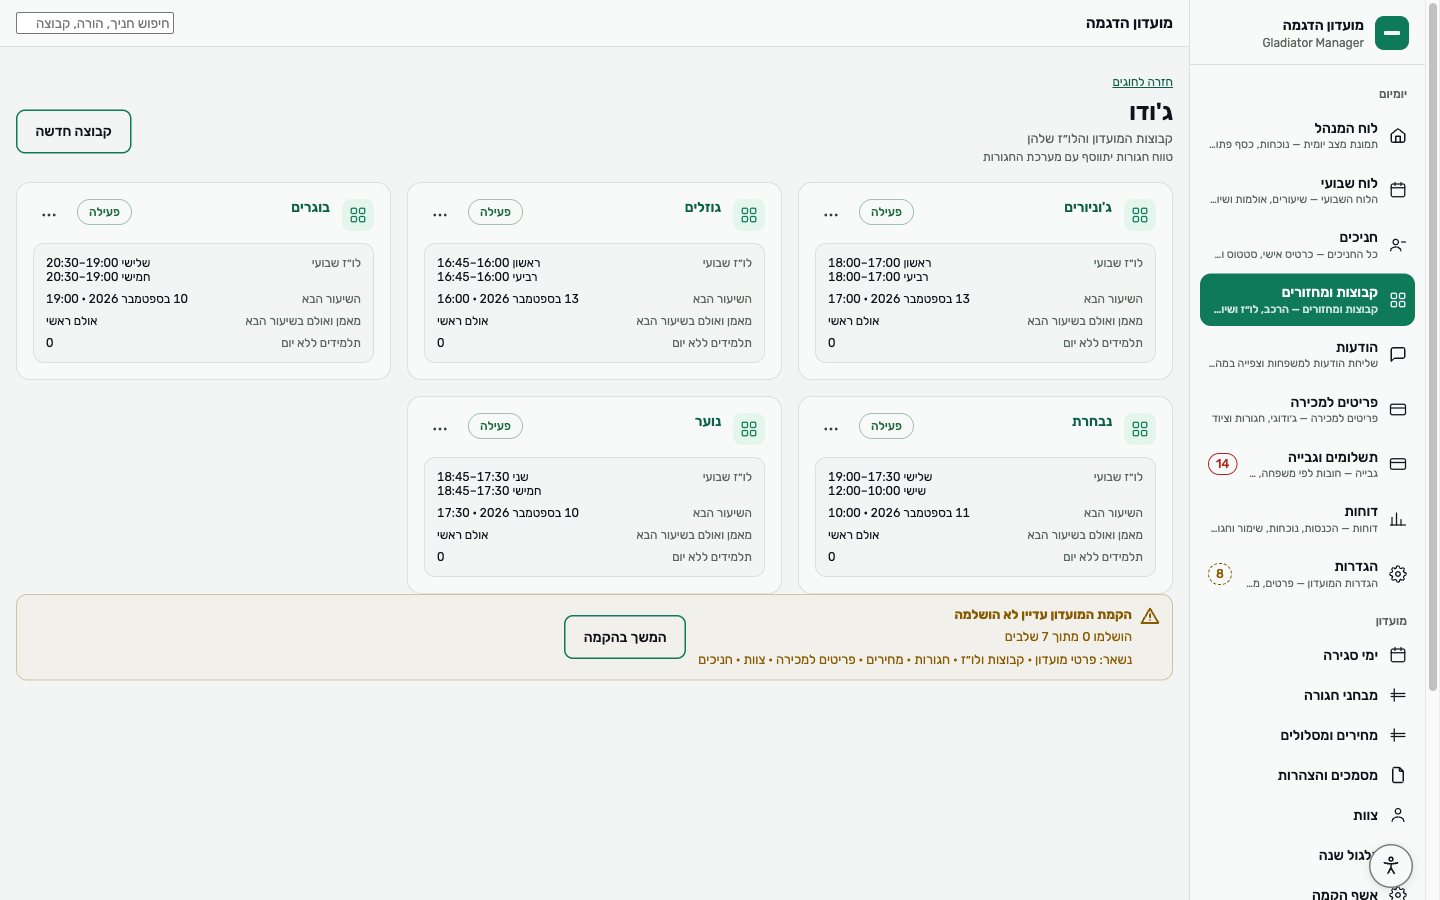
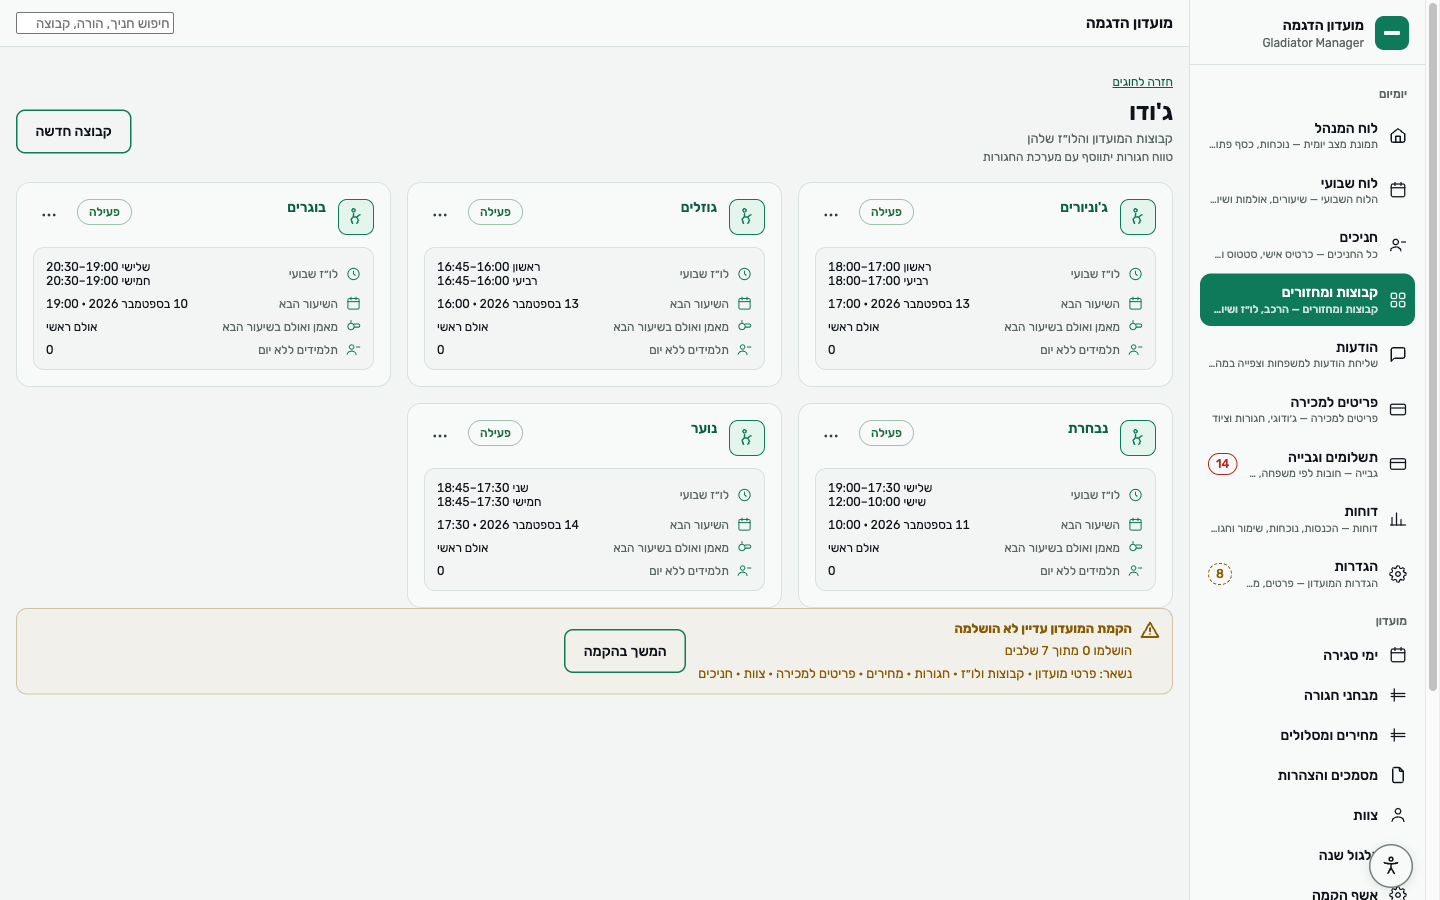
feat(dashboard): a pictogram per class, and one beside every fact on a card
The prototype gives every program and every group card an icon chosen from its
discipline, and puts a small mark before each line in a card's well. Ours had
neither, which is most of why its grid read as a column of boxes and three facts
read as three unlabelled lines.

The icon set gains seven: four disciplines (martial arts, fitness, pool, ball) and
the three marks a group card's facts need (location, clock, whistle), all on the
same 24×24 stroke grid as the rest and all `currentColor`, so an icon is never
carrying a colour decision of its own.

`martialArts` is the DEFAULT and not a fallback to nothing. A club that types קרב
מגע — or nothing at all — still gets a mark, because this is a judo club and an
empty badge on every card is worse than one honest default. The match is on the
word rather than an enum, since `discipline` is free text a manager types, and the
icon is decorative everywhere it appears: the name is always beside it, so a wrong
guess costs a reader nothing.

The unscheduled-students row changes its icon with its state — a person-shaped
mark at zero, a warning above it — so the row above zero turns three ways at once
and the colour is never the only signal.

Both badges take the emphasis tint and the hairline the prototype draws round its
card marks; without the ring the tint floats.

diff --git a/web/apps/dashboard/src/features/schedule/GroupsAndCycles.tsx b/web/apps/dashboard/src/features/schedule/GroupsAndCycles.tsx
@@ -36,9 +36,11 @@
 import { useEffect, useMemo, useState } from 'react'
 import type { ReactNode } from 'react'
 import { Button, EmptyState, Icon, PageHeader, RowActions, StatusChip, TextField } from '@studio/ui'
+import type { IconName } from '@studio/ui'
 import { apiFetch, fill, formatDateInStudioZone, formatTimeInStudioZone } from '@studio/core'
 import { t } from '@studio/i18n'
 import type { Locale } from '@studio/i18n'
+import { disciplineIcon } from './disciplineIcon'
 import type { GroupSummary, ScheduleClient, ScheduleRule, SessionRow } from './client'
 
 interface GroupFacts {
@@ -63,21 +65,32 @@ function coachOf(session: SessionRow): string | null {
 }
 
 /** One labelled fact inside a card's well. `<dt>`/`<dd>` rather than two spans: the label
- *  and its value are a pair, and a screen reader that can say so should. */
+ *  and its value are a pair, and a screen reader that can say so should.
+ *
+ *  The icon is the prototype's — it puts a small pictogram before every fact in a group
+ *  card's well, which is what makes three lines scannable rather than three lines. It is
+ *  decorative: the label is always beside it, so nothing is carried by the picture alone. */
 function Fact({
   label,
   children,
+  icon,
   testId,
   tone,
 }: {
   label: string
   children: ReactNode
+  icon: IconName
   testId?: string
   tone?: 'danger'
 }) {
   return (
     <div className="group-card__fact" data-tone={tone}>
-      <dt>{label}</dt>
+      <dt>
+        <span className="group-card__fact-icon">
+          <Icon name={icon} size={15} />
+        </span>
+        {label}
+      </dt>
       <dd data-testid={testId}>{children}</dd>
     </div>
   )
@@ -92,6 +105,7 @@ export function GroupsAndCycles({
   onChanged,
   className,
   classId,
+  discipline,
   backHref,
 }: {
   locale: Locale
@@ -99,6 +113,8 @@ export function GroupsAndCycles({
   groups: GroupSummary[]
   /** The class these groups belong to. Names the screen and pre-fills the create form. */
   className?: string
+  /** The class's discipline, which picks every card's pictogram. */
+  discipline?: string | null
   /** Set on the create form, so a group made here lands in the class the manager is in. */
   classId?: string
   /** Where "back to classes" goes. Absent in a standalone mount. */
@@ -298,8 +314,10 @@ export function GroupsAndCycles({
           return (
             <li className="group-card" data-testid={`group-card-${group.id}`} key={group.id}>
               <div className="group-card__head">
+                {/* The class's pictogram, the way the prototype marks every group card.
+                    Decorative — the group's name is right beside it. */}
                 <span aria-hidden="true" className="group-card__badge">
-                  <Icon name="groups" />
+                  <Icon name={disciplineIcon(discipline ?? group.className)} size={20} />
                 </span>
                 <span className="group-card__titles">
                   {/* The class reads as the card's eyebrow — where the prototype puts the
@@ -368,6 +386,7 @@ export function GroupsAndCycles({
 
               <dl className="group-card__well">
                 <Fact
+                  icon="clock"
                   label={t(locale, 'schedule.groups.weeklySchedule')}
                   testId={`schedule-${group.id}`}
                 >
@@ -378,7 +397,11 @@ export function GroupsAndCycles({
                     : t(locale, 'schedule.rules.empty')}
                 </Fact>
 
-                <Fact label={t(locale, 'schedule.groups.nextSession')} testId={`next-${group.id}`}>
+                <Fact
+                  icon="calendar"
+                  label={t(locale, 'schedule.groups.nextSession')}
+                  testId={`next-${group.id}`}
+                >
                   {next
                     ? `${formatDateInStudioZone(next.starts_at, locale)} · ${formatTimeInStudioZone(
                         next.starts_at,
@@ -392,6 +415,7 @@ export function GroupsAndCycles({
                     fixed pair when a substitute is taking Tuesday. */}
                 {next && (coach || room) ? (
                   <Fact
+                    icon="whistle"
                     label={t(locale, 'schedule.groups.nextCoachRoom')}
                     testId={`next-where-${group.id}`}
                   >
@@ -404,6 +428,9 @@ export function GroupsAndCycles({
                     `--danger` when above zero, with the label beside it — never colour
                     alone. */}
                 <Fact
+                  // The icon changes with the state, so the warning is not the colour's
+                  // job alone — a zero is a person-shaped mark and a non-zero is a warning.
+                  icon={unscheduled > 0 ? 'warning' : 'students'}
                   label={t(locale, 'schedule.groups.unscheduledStudents')}
                   testId={`unscheduled-${group.id}`}
                   tone={unscheduled > 0 ? 'danger' : undefined}

diff --git a/web/apps/dashboard/src/features/schedule/schedule.css b/web/apps/dashboard/src/features/schedule/schedule.css
@@ -456,10 +456,13 @@
   align-items: center;
   justify-content: center;
   flex-shrink: 0;
-  inline-size: 2rem;
-  block-size: 2rem;
+  inline-size: 2.25rem;
+  block-size: 2.25rem;
   border-radius: var(--radius-md);
   background: var(--emphasis-tint);
+
+  /* The hairline the prototype puts round every card mark. Without it the tint floats. */
+  border: var(--border-width-hairline) solid var(--emphasis);
   color: var(--emphasis);
 }
 
@@ -510,14 +513,25 @@ a.group-card__name:focus-visible {
 
 .group-card__fact {
   display: flex;
-  align-items: baseline;
+  align-items: center;
   justify-content: space-between;
   gap: var(--space-3);
 }
 
+/* The label carries the icon, so the two never separate — and the icon rides on the
+ * label's own colour, which is what makes a `data-tone` change both at once. */
 .group-card__fact > dt {
+  display: flex;
+  align-items: center;
+  gap: var(--space-2);
   color: var(--text-muted);
   flex-shrink: 0;
+}
+
+.group-card__fact-icon {
+  display: flex;
+  flex-shrink: 0;
+  color: var(--emphasis);
 }
 
 .group-card__fact > dd {
@@ -529,9 +543,16 @@ a.group-card__name:focus-visible {
 
 /* The unscheduled count above zero. The label sits beside it in every state, so the
  * colour is the second signal and never the only one. */
+
+/* Above zero the whole row turns — icon, label and count — so the state is carried by the
+ * mark and the wording as well as the colour. */
 .group-card__fact[data-tone='danger'] > dd {
   color: var(--danger);
   font-weight: var(--weight-semibold);
+}
+
+.group-card__fact[data-tone='danger'] .group-card__fact-icon {
+  color: var(--danger);
 }
 
 /* Present only while a rename is open — see the component. */
@@ -924,11 +945,12 @@ a.group-card__name:focus-visible {
   align-items: center;
   justify-content: center;
   flex-shrink: 0;
-  inline-size: 2.25rem;
-  block-size: 2.25rem;
-  border-radius: var(--radius-md);
-  background: var(--disabled-surface);
-  color: var(--text-muted);
+  inline-size: 2.5rem;
+  block-size: 2.5rem;
+  border-radius: var(--radius-lg);
+  background: var(--emphasis-tint);
+  border: var(--border-width-hairline) solid var(--emphasis);
+  color: var(--emphasis);
 }
 
 .class-card__titles {

diff --git a/web/packages/ui/src/primitives/Icon.tsx b/web/packages/ui/src/primitives/Icon.tsx
@@ -148,6 +148,68 @@ const PATHS = {
       <path d="m6 6 12 12" />
     </>
   ),
+  // -- the class/group set (2026-09-10) -------------------------------------------------
+  // The prototype gives every group card a pictogram for its discipline and puts a small
+  // icon beside each fact in the card's well. The set had neither, so a card's three facts
+  // read as three unlabelled lines. Same 24x24 stroke grid, same grammar as the rest.
+  //
+  // `martialArts` is the DEFAULT a class gets when its discipline names nothing we draw —
+  // this is a judo club, and a club that types 'קרב מגע' should still get a mark rather
+  // than a hole.
+  martialArts: (
+    <>
+      <path d="M7 4a2 2 0 1 1 4 0 2 2 0 0 1-4 0Z" />
+      <path d="M9 8v4l-3 3 2 5" />
+      <path d="M9 12h4l4-3" />
+      <path d="m13 12 2 4-2 4" />
+    </>
+  ),
+  fitness: (
+    <>
+      <path d="M4 9v6" />
+      <path d="M20 9v6" />
+      <path d="M7 6v12" />
+      <path d="M17 6v12" />
+      <path d="M7 12h10" />
+    </>
+  ),
+  pool: (
+    <>
+      <path d="M2 17c1.5 0 1.5 1.2 3 1.2s1.5-1.2 3-1.2 1.5 1.2 3 1.2 1.5-1.2 3-1.2 1.5 1.2 3 1.2 1.5-1.2 3-1.2" />
+      <path d="M7 15V6a2 2 0 0 1 4 0" />
+      <path d="M13 15V6a2 2 0 0 1 4 0" />
+      <path d="M7 10h6" />
+    </>
+  ),
+  ball: (
+    <>
+      <circle cx="12" cy="12" r="9" />
+      <path d="M12 3c3 3 3 15 0 18" />
+      <path d="M12 3c-3 3-3 15 0 18" />
+      <path d="M3.5 9h17" />
+      <path d="M3.5 15h17" />
+    </>
+  ),
+  // The three facts on a group card, in the prototype's own order.
+  location: (
+    <>
+      <path d="M20 10c0 5-8 12-8 12s-8-7-8-12a8 8 0 0 1 16 0Z" />
+      <circle cx="12" cy="10" r="2.5" />
+    </>
+  ),
+  clock: (
+    <>
+      <circle cx="12" cy="12" r="9" />
+      <path d="M12 7v5l3 2" />
+    </>
+  ),
+  whistle: (
+    <>
+      <path d="M13 8h7a2 2 0 0 1 2 2v1a2 2 0 0 1-2 2h-7" />
+      <circle cx="8" cy="12" r="5" />
+      <path d="M8 5V3" />
+    </>
+  ),
 } as const
 
 export function Icon({

diff --git a/web/apps/dashboard/src/features/schedule/disciplineIcon.ts b/web/apps/dashboard/src/features/schedule/disciplineIcon.ts
@@ -1,0 +1,28 @@
+// Which pictogram a class — and therefore each of its groups — is drawn with.
+//
+// The prototype gives every group card an icon chosen from its `discipline`
+// (`sports_martial_arts` · `fitness_center` · `pool` · `sports_mma`), which is one of the
+// things that makes its grid readable at a glance and ours read as a list of boxes. Ours
+// maps the same way, off the real `class.discipline` column rather than off §4 rule 6's
+// multi-sport model.
+//
+// **`martialArts` is the default, not a fallback to nothing.** A club that types קרב מגע,
+// or nothing at all, still gets a mark: this is a judo club, and an empty badge on every
+// card would be worse than one honest default. The icon is decorative in every place it is
+// used — the class's name is always beside it — so a wrong guess costs a reader nothing.
+import type { IconName } from '@studio/ui'
+
+/** Matched on the word rather than an enum: `discipline` is free text a manager types. */
+const BY_WORD: { test: RegExp; icon: IconName }[] = [
+  { test: /judo|ג.?ודו|karate|קרטה|bjj|mma|קרב|אגרוף|box/i, icon: 'martialArts' },
+  { test: /fit|cross|כושר|כוח|gym|התעמלות/i, icon: 'fitness' },
+  // `שחיה` and `שחייה` are both written, hence `י{1,2}` — a character class matches one
+  // character and would have missed the spelling most people use.
+  { test: /swim|שחי{1,2}ה|pool|בריכה/i, icon: 'pool' },
+  { test: /ball|כדור|soccer|basket/i, icon: 'ball' },
+]
+
+export function disciplineIcon(discipline: string | null | undefined): IconName {
+  if (!discipline) return 'martialArts'
+  return BY_WORD.find((entry) => entry.test.test(discipline))?.icon ?? 'martialArts'
+}

diff --git a/web/apps/dashboard/src/features/schedule/disciplineIcon.test.ts b/web/apps/dashboard/src/features/schedule/disciplineIcon.test.ts
@@ -1,0 +1,35 @@
+// Which pictogram a class and its groups are drawn with.
+//
+// The prototype picks one per discipline and that is half of why its grid reads at a
+// glance. `discipline` is free text a manager types, so this matches on the word rather
+// than on an enum — and the default is a real mark, not a hole.
+import { describe, expect, it } from 'vitest'
+import { disciplineIcon } from './disciplineIcon'
+
+describe('disciplineIcon', () => {
+  it.each([
+    ['judo', 'martialArts'],
+    ["ג'ודו", 'martialArts'],
+    ['ג׳ודו אולימפי', 'martialArts'],
+    ['karate', 'martialArts'],
+    ['קרב מגע', 'martialArts'],
+    ['BJJ', 'martialArts'],
+    ['crossfit', 'fitness'],
+    ['כושר', 'fitness'],
+    ['swimming', 'pool'],
+    ['שחייה', 'pool'],
+    ['כדורסל', 'ball'],
+  ])('draws %s as %s', (discipline, icon) => {
+    expect(disciplineIcon(discipline)).toBe(icon)
+  })
+
+  it('defaults to a martial art rather than to nothing', () => {
+    // A club that names no discipline still gets a mark. This is a judo club, and an empty
+    // badge on every card would be worse than one honest default — the class's name is
+    // always beside it, so a wrong guess costs a reader nothing.
+    expect(disciplineIcon(null)).toBe('martialArts')
+    expect(disciplineIcon(undefined)).toBe('martialArts')
+    expect(disciplineIcon('')).toBe('martialArts')
+    expect(disciplineIcon('משהו אחר לגמרי')).toBe('martialArts')
+  })
+})

diff --git a/web/apps/dashboard/src/features/schedule/ClassesScreen.tsx b/web/apps/dashboard/src/features/schedule/ClassesScreen.tsx
@@ -20,6 +20,7 @@ import { EmptyState, Icon, LoadFailed, PageHeader, RowActions, StatusChip } from
 import { fill } from '@studio/core'
 import { t } from '@studio/i18n'
 import type { Locale } from '@studio/i18n'
+import { disciplineIcon } from './disciplineIcon'
 import type { ClassSummary, GroupSummary, ScheduleClient } from './client'
 
 export function ClassesScreen({
@@ -138,10 +139,12 @@ export function ClassesScreen({
           return (
             <li className="class-card" data-testid={`class-card-${klass.id}`} key={klass.id}>
               <div className="class-card__head">
-                {/* One neutral mark on every card. The owner cut the per-class colour, so
-                    there is nothing here to tint it by and nothing pretending there is. */}
+                {/* The class's own pictogram, chosen from its discipline the way the
+                    prototype chooses one per program. The COLOUR is still neutral on every
+                    card — the owner cut the per-class colour — so the mark distinguishes a
+                    class without inventing a palette. */}
                 <span aria-hidden="true" className="class-card__badge">
-                  <Icon name="groups" />
+                  <Icon name={disciplineIcon(klass.discipline)} size={22} />
                 </span>
                 <span className="class-card__titles">
                   {klass.discipline ? (

diff --git a/web/apps/dashboard/src/features/schedule/ScheduleSection.tsx b/web/apps/dashboard/src/features/schedule/ScheduleSection.tsx
@@ -212,6 +212,7 @@ export function ScheduleSection({
         classId={route.classId}
         className={klass?.name}
         client={client}
+        discipline={klass?.discipline}
         groups={mine}
         hrefForGroup={(groupId) => `#/groups/${groupId}`}
         locale={locale}
